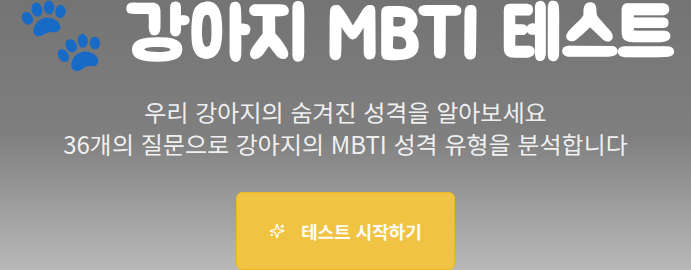
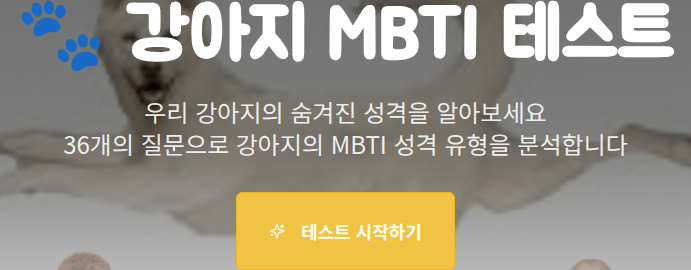
Update the main page to show the correct hero image
Replace the old hero image import path with the new one in Home.tsx.

Replit-Commit-Author: Agent
Replit-Commit-Session-Id: 63ed1350-afe6-4784-ab65-552bd3ac584b
Replit-Commit-Checkpoint-Type: full_checkpoint
Replit-Commit-Screenshot-Url: https://storage.googleapis.com/screenshot-production-us-central1/6b0e1144-83f9-42a8-896d-168918cd9edd/63ed1350-afe6-4784-ab65-552bd3ac584b/GJakfSa

diff --git a/client/src/pages/Home.tsx b/client/src/pages/Home.tsx
@@ -3,7 +3,7 @@ import { Card, CardContent } from '@/components/ui/card';
 import { useLocation } from 'wouter';
 import { useLanguage } from '@/contexts/LanguageContext';
 import { LanguageToggle } from '@/components/LanguageToggle';
-import heroImage from '@assets/Gemini_Generated_Image_yyiaq1yyiaq1yyia (1)_1760107423035.png';
+import heroImage from '@assets/hero-dogs-group.png';
 import { PawPrint, Heart, Sparkles } from 'lucide-react';
 
 export default function Home() {
